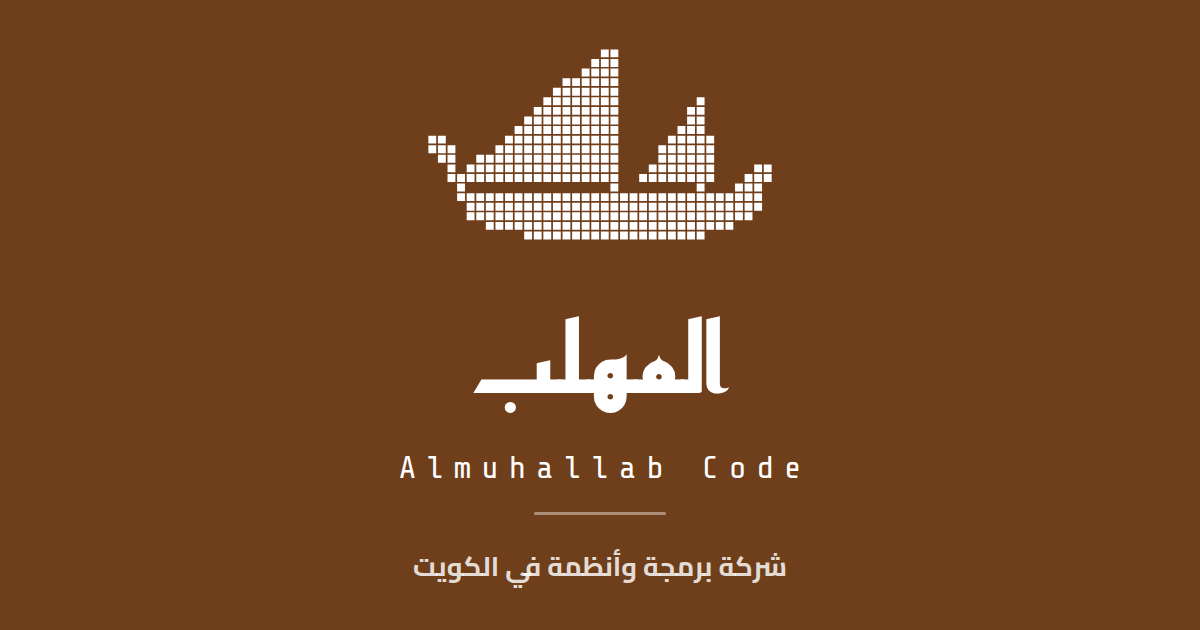
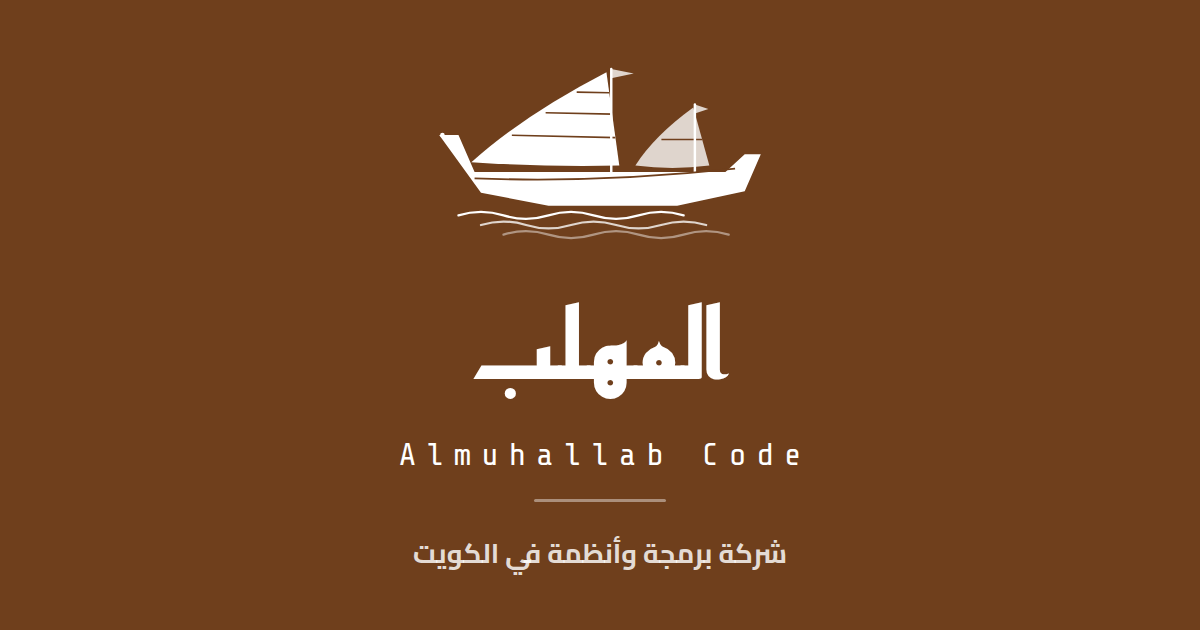
الشعار الجديد: البوم المرسوم أبيض على البني في الشريط والتذييل والأيقونة وبطاقة المشاركة
بموافقة المالك (الشعار فقط، الشريط بني كما هو). design/ship_mark.py يكتب #i-ship
وlogo.svg وfavicon.svg من رسمة واحدة. الاختبار 725/725.

Claude-Session: https://claude.ai/code/session_01Ta4JK9JCEpPNvSTme3t8ta

diff --git a/almuhallab/index.html b/almuhallab/index.html
@@ -346,34 +346,15 @@
        (one block, so no margin of its own), 13 to the descriptor. It was
        24 / 12 / 13, the first nine of the 24 being empty rows of her box. */
     .brand { gap: 6px; }
-    /* The boum is sized in whole cells, never in free pixels: --cell is the
-       CSS size of one of her 36×20 cells, and the hint below (written by
-       design/pixel_boum.py) turns it into whole device pixels per cell with a
-       whole-pixel seam between them. 148×74 put 3.08px in a cell and the
-       seams fell between pixels — a grey, uneven ship. Her box is cropped to
-       her cells, so the gap under her is the gap you see. */
+    /* the mark is the illustrated boum (design/ship_mark.py, approved
+       2026-10-03); her cut lines take the bar's own brown */
     .brand .logo { --cell: 3; display: block; flex: none; color: var(--on-bar);
       overflow: visible;   /* a box the browser rounds to whole CSS px must not clip her keel */
       transition: width .22s ease, height .22s ease; }
-    /* pixel-boum:hint */
-    /* Written by design/pixel_boum.py, which explains it — edit it there.
-       --cell is the CSS size of one cell; the bar sets it per state. --qmin
-       is the fewest device pixels a cell may take: 2 draws 1 lit + 1 seam, a
-       tan mesh rather than a white ship, so the compact states ask for 3. */
-    .brand .logo { width: calc(var(--cell) * 36px); height: calc(var(--cell) * 20px); }
-    @supports (width: calc(round(nearest, 1.5px, 1px))) {
-      .brand .logo {
-        --q: max(var(--qmin, 2), round(nearest, calc(var(--cell) * var(--dpr, 1)), 1));
-        --g: max(1, round(nearest, calc(var(--q) * 0.18), 1));
-        width: calc(var(--q) / var(--dpr, 1) * 36px); height: calc(var(--q) / var(--dpr, 1) * 20px); }
-      @supports (d: path("M0 0")) {
-        #i-boum path { d: path("M24 1.5h2M23 2.5h3M22 3.5h4M20 4.5h6M19 5.5h7M18 6.5h8M34 6.5h1M17 7.5h9M33 7.5h2M16 8.5h10M33 8.5h2M15 9.5h11M32 9.5h3M6 10.5h2M14 10.5h12M31 10.5h5M6 11.5h3M13 11.5h13M30 11.5h6M7 12.5h2M11 12.5h15M30 12.5h6M8 13.5h1M10 13.5h16M29 13.5h7M40 13.5h2M8 14.5h18M28 14.5h8M39 14.5h3M9 15.5h1M25 15.5h1M34 15.5h1M38 15.5h3M9 16.5h32M10 17.5h31M10 18.5h30M12 19.5h26M16 20.5h19");
-          fill: none; stroke: currentColor; shape-rendering: crispEdges;
-          stroke-width: calc(1 - var(--g) / var(--q)); stroke-dasharray: calc(1 - var(--g) / var(--q)) calc(var(--g) / var(--q));
-          transform: translate(calc(0.0625px / var(--q)), calc((0.0625 - var(--g) / 2) * 1px / var(--q))); }
-      }
-    }
-    /* /pixel-boum:hint */
+    /* --cell is the bar state's size step (top 3, compact 2, folded row 1.34):
+       the ship is 40px wide per step, her height following her own drawing */
+    .brand .logo { width: calc(var(--cell) * 40px); height: auto; aspect-ratio: 444 / 265;
+      --ship-cut: var(--tint-strong); }
     .brand .name { display: block; font-family: "Reem Kufi", "Cairo", sans-serif; font-size: 32px; font-weight: 700;
       color: var(--on-bar); line-height: 1.35;
       transition: font-size .22s ease; }
@@ -394,7 +375,7 @@
        company's name is not a masthead. */
     html.scrolled header { padding-top: 8px; }
     html.scrolled .brand { gap: 4px; }
-    html.scrolled .brand .logo { --cell: 2; --qmin: 3; }   /* never the 1+1 mesh at 1× */
+    html.scrolled .brand .logo { --cell: 2; }
     html.scrolled .brand .name { font-size: 20px; }
     html.scrolled .brand .en { font-size: 11px; }   /* ~104px under a 72–108px ship */
     html.scrolled .brand small { max-height: 0; opacity: 0; margin-top: 0; }
@@ -1103,6 +1084,7 @@
     .base { border-top: 1px solid var(--border); padding: 16px 20px;
       display: flex; flex-wrap: wrap; align-items: center; justify-content: center; gap: 8px 16px; }
     .base .made { display: inline-flex; align-items: center; gap: 6px; }
+    .base .made .ship { width: 24px; --ship-cut: var(--panel-2); }   /* the ship on the grey base */
     .base .top { display: inline-flex; align-items: center; gap: 6px; color: var(--tint);
       font-weight: 700; padding: 6px 12px; border-radius: 999px; border: 1px solid var(--border);
       background: var(--panel); transition: border-color .18s ease, transform .18s ease; }
@@ -1219,22 +1201,6 @@
     if (h === "localhost" || h === "127.0.0.1" || h === "[::1]") return;
     location.replace("https:" + location.href.slice(location.protocol.length));
   })();
-  /* The masthead draws the boum on whole device pixels (design/pixel_boum.py
-     writes how), and CSS cannot read the pixel ratio — so it is handed over
-     here, before the bar paints, and again whenever it changes: a zoom, or a
-     window dragged to another screen. Without it the bar assumes 1, which is
-     exact at 1×, 2× and 3× anyway; this is what makes 1.25×, 1.5× and a
-     2.625× phone exact too. */
-  (function () {
-    var root = document.documentElement;
-    function track() {
-      var r = window.devicePixelRatio || 1;
-      root.style.setProperty("--dpr", r);
-      var mq = window.matchMedia && matchMedia("(resolution: " + r + "dppx)");
-      if (mq && mq.addEventListener) mq.addEventListener("change", track, { once: true });
-    }
-    track();
-  })();
 </script>
 </head>
 <body id="top">
@@ -1245,6 +1211,7 @@
        the tab icon is favicon.svg). Drawn 2026-08-09 from the photograph of
        the ship, at the owner's direction. -->
   <svg width="0" height="0" style="position:absolute" aria-hidden="true" focusable="false">
+    <symbol id="i-ship" viewBox="-12 -18 444 265"><defs><clipPath id="i-ship-cs1"><path fill="#000" d="M42.0 126.0 Q109.2 65.1 218.4 8.4 L235.2 130.2 Q138.6 132.3 42.0 126.0Z"/></clipPath><clipPath id="i-ship-cs2"><path fill="#000" d="M256.2 130.2 Q281.4 91.1 331.8 54.6 L352.8 130.2 Q304.5 136.5 256.2 130.2Z"/></clipPath></defs><path fill="currentColor" d="M42.0 126.0 Q109.2 65.1 218.4 8.4 L235.2 130.2 Q138.6 132.3 42.0 126.0Z"/><path fill="currentColor" fill-opacity=".78" d="M256.2 130.2 Q281.4 91.1 331.8 54.6 L352.8 130.2 Q304.5 136.5 256.2 130.2Z"/><path clip-path="url(#i-ship-cs1)" stroke="var(--ship-cut, #6f3f1c)" stroke-width="2.2" d="M94.9 90.7 L230.3 93.7"/><path clip-path="url(#i-ship-cs1)" stroke="var(--ship-cut, #6f3f1c)" stroke-width="2.2" d="M139.0 61.3 L226.1 63.2"/><path clip-path="url(#i-ship-cs1)" stroke="var(--ship-cut, #6f3f1c)" stroke-width="2.2" d="M179.6 34.3 L222.4 35.2"/><path clip-path="url(#i-ship-cs2)" stroke="var(--ship-cut, #6f3f1c)" stroke-width="2" d="M290.2 96.2 L343.4 96.2"/><path stroke="currentColor" stroke-width="3.2" stroke-linecap="round" d="M224.7 4.2 L224.7 140.7"/><path fill="currentColor" fill-opacity=".78" d="M224.7 4.2 l29.4 6.0 l-29.4 6.0z"/><path stroke="currentColor" stroke-width="3.2" stroke-linecap="round" d="M333.9 50.4 L333.9 140.7"/><path fill="currentColor" fill-opacity=".78" d="M333.9 50.4 l17.6 6.0 l-17.6 6.0z"/><path fill="currentColor" d="M0.0 90.3 L25.2 90.3 L46.2 138.6 L373.8 138.6 L399.0 115.5 L420.0 115.5 L399.0 163.8 L310.8 182.7 L142.8 182.7 L54.6 165.9Z"/><path fill="none" stroke="var(--ship-cut, #6f3f1c)" stroke-width="2.4" d="M46.2 147.0 Q210.0 153.3 386.4 134.4"/><path fill="none" stroke="currentColor" stroke-opacity=".45" stroke-width="1.6" d="M75.6 163.8 Q210.0 172.2 361.2 155.4"/><circle cx="4.2" cy="90.3" r="3" fill="currentColor"/><path fill="none" stroke="currentColor" stroke-width="3" stroke-linecap="round" d="M25.2 195.3 q29.4 -9 58.8 0 t58.8 0 t58.8 0 t58.8 0 t58.8 0"/><path fill="none" stroke="currentColor" stroke-opacity=".78" stroke-width="3" stroke-linecap="round" d="M54.6 207.9 q29.4 -9 58.8 0 t58.8 0 t58.8 0 t58.8 0 t58.8 0"/><path fill="none" stroke="currentColor" stroke-opacity=".45" stroke-width="3" stroke-linecap="round" d="M84.0 220.5 q29.4 -9 58.8 0 t58.8 0 t58.8 0 t58.8 0 t58.8 0"/></symbol>
     <symbol id="i-boum" viewBox="0 0 48 24"><path fill="currentColor" stroke="none" d="M24.09 1.09h0.82v0.82h-0.82zM25.09 1.09h0.82v0.82h-0.82zM23.09 2.09h0.82v0.82h-0.82zM24.09 2.09h0.82v0.82h-0.82zM25.09 2.09h0.82v0.82h-0.82zM22.09 3.09h0.82v0.82h-0.82zM23.09 3.09h0.82v0.82h-0.82zM24.09 3.09h0.82v0.82h-0.82zM25.09 3.09h0.82v0.82h-0.82zM20.09 4.09h0.82v0.82h-0.82zM21.09 4.09h0.82v0.82h-0.82zM22.09 4.09h0.82v0.82h-0.82zM23.09 4.09h0.82v0.82h-0.82zM24.09 4.09h0.82v0.82h-0.82zM25.09 4.09h0.82v0.82h-0.82zM19.09 5.09h0.82v0.82h-0.82zM20.09 5.09h0.82v0.82h-0.82zM21.09 5.09h0.82v0.82h-0.82zM22.09 5.09h0.82v0.82h-0.82zM23.09 5.09h0.82v0.82h-0.82zM24.09 5.09h0.82v0.82h-0.82zM25.09 5.09h0.82v0.82h-0.82zM18.09 6.09h0.82v0.82h-0.82zM19.09 6.09h0.82v0.82h-0.82zM20.09 6.09h0.82v0.82h-0.82zM21.09 6.09h0.82v0.82h-0.82zM22.09 6.09h0.82v0.82h-0.82zM23.09 6.09h0.82v0.82h-0.82zM24.09 6.09h0.82v0.82h-0.82zM25.09 6.09h0.82v0.82h-0.82zM34.09 6.09h0.82v0.82h-0.82zM17.09 7.09h0.82v0.82h-0.82zM18.09 7.09h0.82v0.82h-0.82zM19.09 7.09h0.82v0.82h-0.82zM20.09 7.09h0.82v0.82h-0.82zM21.09 7.09h0.82v0.82h-0.82zM22.09 7.09h0.82v0.82h-0.82zM23.09 7.09h0.82v0.82h-0.82zM24.09 7.09h0.82v0.82h-0.82zM25.09 7.09h0.82v0.82h-0.82zM33.09 7.09h0.82v0.82h-0.82zM34.09 7.09h0.82v0.82h-0.82zM16.09 8.09h0.82v0.82h-0.82zM17.09 8.09h0.82v0.82h-0.82zM18.09 8.09h0.82v0.82h-0.82zM19.09 8.09h0.82v0.82h-0.82zM20.09 8.09h0.82v0.82h-0.82zM21.09 8.09h0.82v0.82h-0.82zM22.09 8.09h0.82v0.82h-0.82zM23.09 8.09h0.82v0.82h-0.82zM24.09 8.09h0.82v0.82h-0.82zM25.09 8.09h0.82v0.82h-0.82zM33.09 8.09h0.82v0.82h-0.82zM34.09 8.09h0.82v0.82h-0.82zM15.09 9.09h0.82v0.82h-0.82zM16.09 9.09h0.82v0.82h-0.82zM17.09 9.09h0.82v0.82h-0.82zM18.09 9.09h0.82v0.82h-0.82zM19.09 9.09h0.82v0.82h-0.82zM20.09 9.09h0.82v0.82h-0.82zM21.09 9.09h0.82v0.82h-0.82zM22.09 9.09h0.82v0.82h-0.82zM23.09 9.09h0.82v0.82h-0.82zM24.09 9.09h0.82v0.82h-0.82zM25.09 9.09h0.82v0.82h-0.82zM32.09 9.09h0.82v0.82h-0.82zM33.09 9.09h0.82v0.82h-0.82zM34.09 9.09h0.82v0.82h-0.82zM6.09 10.09h0.82v0.82h-0.82zM7.09 10.09h0.82v0.82h-0.82zM14.09 10.09h0.82v0.82h-0.82zM15.09 10.09h0.82v0.82h-0.82zM16.09 10.09h0.82v0.82h-0.82zM17.09 10.09h0.82v0.82h-0.82zM18.09 10.09h0.82v0.82h-0.82zM19.09 10.09h0.82v0.82h-0.82zM20.09 10.09h0.82v0.82h-0.82zM21.09 10.09h0.82v0.82h-0.82zM22.09 10.09h0.82v0.82h-0.82zM23.09 10.09h0.82v0.82h-0.82zM24.09 10.09h0.82v0.82h-0.82zM25.09 10.09h0.82v0.82h-0.82zM31.09 10.09h0.82v0.82h-0.82zM32.09 10.09h0.82v0.82h-0.82zM33.09 10.09h0.82v0.82h-0.82zM34.09 10.09h0.82v0.82h-0.82zM35.09 10.09h0.82v0.82h-0.82zM6.09 11.09h0.82v0.82h-0.82zM7.09 11.09h0.82v0.82h-0.82zM8.09 11.09h0.82v0.82h-0.82zM13.09 11.09h0.82v0.82h-0.82zM14.09 11.09h0.82v0.82h-0.82zM15.09 11.09h0.82v0.82h-0.82zM16.09 11.09h0.82v0.82h-0.82zM17.09 11.09h0.82v0.82h-0.82zM18.09 11.09h0.82v0.82h-0.82zM19.09 11.09h0.82v0.82h-0.82zM20.09 11.09h0.82v0.82h-0.82zM21.09 11.09h0.82v0.82h-0.82zM22.09 11.09h0.82v0.82h-0.82zM23.09 11.09h0.82v0.82h-0.82zM24.09 11.09h0.82v0.82h-0.82zM25.09 11.09h0.82v0.82h-0.82zM30.09 11.09h0.82v0.82h-0.82zM31.09 11.09h0.82v0.82h-0.82zM32.09 11.09h0.82v0.82h-0.82zM33.09 11.09h0.82v0.82h-0.82zM34.09 11.09h0.82v0.82h-0.82zM35.09 11.09h0.82v0.82h-0.82zM7.09 12.09h0.82v0.82h-0.82zM8.09 12.09h0.82v0.82h-0.82zM11.09 12.09h0.82v0.82h-0.82zM12.09 12.09h0.82v0.82h-0.82zM13.09 12.09h0.82v0.82h-0.82zM14.09 12.09h0.82v0.82h-0.82zM15.09 12.09h0.82v0.82h-0.82zM16.09 12.09h0.82v0.82h-0.82zM17.09 12.09h0.82v0.82h-0.82zM18.09 12.09h0.82v0.82h-0.82zM19.09 12.09h0.82v0.82h-0.82zM20.09 12.09h0.82v0.82h-0.82zM21.09 12.09h0.82v0.82h-0.82zM22.09 12.09h0.82v0.82h-0.82zM23.09 12.09h0.82v0.82h-0.82zM24.09 12.09h0.82v0.82h-0.82zM25.09 12.09h0.82v0.82h-0.82zM30.09 12.09h0.82v0.82h-0.82zM31.09 12.09h0.82v0.82h-0.82zM32.09 12.09h0.82v0.82h-0.82zM33.09 12.09h0.82v0.82h-0.82zM34.09 12.09h0.82v0.82h-0.82zM35.09 12.09h0.82v0.82h-0.82zM8.09 13.09h0.82v0.82h-0.82zM10.09 13.09h0.82v0.82h-0.82zM11.09 13.09h0.82v0.82h-0.82zM12.09 13.09h0.82v0.82h-0.82zM13.09 13.09h0.82v0.82h-0.82zM14.09 13.09h0.82v0.82h-0.82zM15.09 13.09h0.82v0.82h-0.82zM16.09 13.09h0.82v0.82h-0.82zM17.09 13.09h0.82v0.82h-0.82zM18.09 13.09h0.82v0.82h-0.82zM19.09 13.09h0.82v0.82h-0.82zM20.09 13.09h0.82v0.82h-0.82zM21.09 13.09h0.82v0.82h-0.82zM22.09 13.09h0.82v0.82h-0.82zM23.09 13.09h0.82v0.82h-0.82zM24.09 13.09h0.82v0.82h-0.82zM25.09 13.09h0.82v0.82h-0.82zM29.09 13.09h0.82v0.82h-0.82zM30.09 13.09h0.82v0.82h-0.82zM31.09 13.09h0.82v0.82h-0.82zM32.09 13.09h0.82v0.82h-0.82zM33.09 13.09h0.82v0.82h-0.82zM34.09 13.09h0.82v0.82h-0.82zM35.09 13.09h0.82v0.82h-0.82zM40.09 13.09h0.82v0.82h-0.82zM41.09 13.09h0.82v0.82h-0.82zM8.09 14.09h0.82v0.82h-0.82zM9.09 14.09h0.82v0.82h-0.82zM10.09 14.09h0.82v0.82h-0.82zM11.09 14.09h0.82v0.82h-0.82zM12.09 14.09h0.82v0.82h-0.82zM13.09 14.09h0.82v0.82h-0.82zM14.09 14.09h0.82v0.82h-0.82zM15.09 14.09h0.82v0.82h-0.82zM16.09 14.09h0.82v0.82h-0.82zM17.09 14.09h0.82v0.82h-0.82zM18.09 14.09h0.82v0.82h-0.82zM19.09 14.09h0.82v0.82h-0.82zM20.09 14.09h0.82v0.82h-0.82zM21.09 14.09h0.82v0.82h-0.82zM22.09 14.09h0.82v0.82h-0.82zM23.09 14.09h0.82v0.82h-0.82zM24.09 14.09h0.82v0.82h-0.82zM25.09 14.09h0.82v0.82h-0.82zM28.09 14.09h0.82v0.82h-0.82zM29.09 14.09h0.82v0.82h-0.82zM30.09 14.09h0.82v0.82h-0.82zM31.09 14.09h0.82v0.82h-0.82zM32.09 14.09h0.82v0.82h-0.82zM33.09 14.09h0.82v0.82h-0.82zM34.09 14.09h0.82v0.82h-0.82zM35.09 14.09h0.82v0.82h-0.82zM39.09 14.09h0.82v0.82h-0.82zM40.09 14.09h0.82v0.82h-0.82zM41.09 14.09h0.82v0.82h-0.82zM9.09 15.09h0.82v0.82h-0.82zM25.09 15.09h0.82v0.82h-0.82zM34.09 15.09h0.82v0.82h-0.82zM38.09 15.09h0.82v0.82h-0.82zM39.09 15.09h0.82v0.82h-0.82zM40.09 15.09h0.82v0.82h-0.82zM9.09 16.09h0.82v0.82h-0.82zM10.09 16.09h0.82v0.82h-0.82zM11.09 16.09h0.82v0.82h-0.82zM12.09 16.09h0.82v0.82h-0.82zM13.09 16.09h0.82v0.82h-0.82zM14.09 16.09h0.82v0.82h-0.82zM15.09 16.09h0.82v0.82h-0.82zM16.09 16.09h0.82v0.82h-0.82zM17.09 16.09h0.82v0.82h-0.82zM18.09 16.09h0.82v0.82h-0.82zM19.09 16.09h0.82v0.82h-0.82zM20.09 16.09h0.82v0.82h-0.82zM21.09 16.09h0.82v0.82h-0.82zM22.09 16.09h0.82v0.82h-0.82zM23.09 16.09h0.82v0.82h-0.82zM24.09 16.09h0.82v0.82h-0.82zM25.09 16.09h0.82v0.82h-0.82zM26.09 16.09h0.82v0.82h-0.82zM27.09 16.09h0.82v0.82h-0.82zM28.09 16.09h0.82v0.82h-0.82zM29.09 16.09h0.82v0.82h-0.82zM30.09 16.09h0.82v0.82h-0.82zM31.09 16.09h0.82v0.82h-0.82zM32.09 16.09h0.82v0.82h-0.82zM33.09 16.09h0.82v0.82h-0.82zM34.09 16.09h0.82v0.82h-0.82zM35.09 16.09h0.82v0.82h-0.82zM36.09 16.09h0.82v0.82h-0.82zM37.09 16.09h0.82v0.82h-0.82zM38.09 16.09h0.82v0.82h-0.82zM39.09 16.09h0.82v0.82h-0.82zM40.09 16.09h0.82v0.82h-0.82zM10.09 17.09h0.82v0.82h-0.82zM11.09 17.09h0.82v0.82h-0.82zM12.09 17.09h0.82v0.82h-0.82zM13.09 17.09h0.82v0.82h-0.82zM14.09 17.09h0.82v0.82h-0.82zM15.09 17.09h0.82v0.82h-0.82zM16.09 17.09h0.82v0.82h-0.82zM17.09 17.09h0.82v0.82h-0.82zM18.09 17.09h0.82v0.82h-0.82zM19.09 17.09h0.82v0.82h-0.82zM20.09 17.09h0.82v0.82h-0.82zM21.09 17.09h0.82v0.82h-0.82zM22.09 17.09h0.82v0.82h-0.82zM23.09 17.09h0.82v0.82h-0.82zM24.09 17.09h0.82v0.82h-0.82zM25.09 17.09h0.82v0.82h-0.82zM26.09 17.09h0.82v0.82h-0.82zM27.09 17.09h0.82v0.82h-0.82zM28.09 17.09h0.82v0.82h-0.82zM29.09 17.09h0.82v0.82h-0.82zM30.09 17.09h0.82v0.82h-0.82zM31.09 17.09h0.82v0.82h-0.82zM32.09 17.09h0.82v0.82h-0.82zM33.09 17.09h0.82v0.82h-0.82zM34.09 17.09h0.82v0.82h-0.82zM35.09 17.09h0.82v0.82h-0.82zM36.09 17.09h0.82v0.82h-0.82zM37.09 17.09h0.82v0.82h-0.82zM38.09 17.09h0.82v0.82h-0.82zM39.09 17.09h0.82v0.82h-0.82zM40.09 17.09h0.82v0.82h-0.82zM10.09 18.09h0.82v0.82h-0.82zM11.09 18.09h0.82v0.82h-0.82zM12.09 18.09h0.82v0.82h-0.82zM13.09 18.09h0.82v0.82h-0.82zM14.09 18.09h0.82v0.82h-0.82zM15.09 18.09h0.82v0.82h-0.82zM16.09 18.09h0.82v0.82h-0.82zM17.09 18.09h0.82v0.82h-0.82zM18.09 18.09h0.82v0.82h-0.82zM19.09 18.09h0.82v0.82h-0.82zM20.09 18.09h0.82v0.82h-0.82zM21.09 18.09h0.82v0.82h-0.82zM22.09 18.09h0.82v0.82h-0.82zM23.09 18.09h0.82v0.82h-0.82zM24.09 18.09h0.82v0.82h-0.82zM25.09 18.09h0.82v0.82h-0.82zM26.09 18.09h0.82v0.82h-0.82zM27.09 18.09h0.82v0.82h-0.82zM28.09 18.09h0.82v0.82h-0.82zM29.09 18.09h0.82v0.82h-0.82zM30.09 18.09h0.82v0.82h-0.82zM31.09 18.09h0.82v0.82h-0.82zM32.09 18.09h0.82v0.82h-0.82zM33.09 18.09h0.82v0.82h-0.82zM34.09 18.09h0.82v0.82h-0.82zM35.09 18.09h0.82v0.82h-0.82zM36.09 18.09h0.82v0.82h-0.82zM37.09 18.09h0.82v0.82h-0.82zM38.09 18.09h0.82v0.82h-0.82zM39.09 18.09h0.82v0.82h-0.82zM12.09 19.09h0.82v0.82h-0.82zM13.09 19.09h0.82v0.82h-0.82zM14.09 19.09h0.82v0.82h-0.82zM15.09 19.09h0.82v0.82h-0.82zM16.09 19.09h0.82v0.82h-0.82zM17.09 19.09h0.82v0.82h-0.82zM18.09 19.09h0.82v0.82h-0.82zM19.09 19.09h0.82v0.82h-0.82zM20.09 19.09h0.82v0.82h-0.82zM21.09 19.09h0.82v0.82h-0.82zM22.09 19.09h0.82v0.82h-0.82zM23.09 19.09h0.82v0.82h-0.82zM24.09 19.09h0.82v0.82h-0.82zM25.09 19.09h0.82v0.82h-0.82zM26.09 19.09h0.82v0.82h-0.82zM27.09 19.09h0.82v0.82h-0.82zM28.09 19.09h0.82v0.82h-0.82zM29.09 19.09h0.82v0.82h-0.82zM30.09 19.09h0.82v0.82h-0.82zM31.09 19.09h0.82v0.82h-0.82zM32.09 19.09h0.82v0.82h-0.82zM33.09 19.09h0.82v0.82h-0.82zM34.09 19.09h0.82v0.82h-0.82zM35.09 19.09h0.82v0.82h-0.82zM36.09 19.09h0.82v0.82h-0.82zM37.09 19.09h0.82v0.82h-0.82zM16.09 20.09h0.82v0.82h-0.82zM17.09 20.09h0.82v0.82h-0.82zM18.09 20.09h0.82v0.82h-0.82zM19.09 20.09h0.82v0.82h-0.82zM20.09 20.09h0.82v0.82h-0.82zM21.09 20.09h0.82v0.82h-0.82zM22.09 20.09h0.82v0.82h-0.82zM23.09 20.09h0.82v0.82h-0.82zM24.09 20.09h0.82v0.82h-0.82zM25.09 20.09h0.82v0.82h-0.82zM26.09 20.09h0.82v0.82h-0.82zM27.09 20.09h0.82v0.82h-0.82zM28.09 20.09h0.82v0.82h-0.82zM29.09 20.09h0.82v0.82h-0.82zM30.09 20.09h0.82v0.82h-0.82zM31.09 20.09h0.82v0.82h-0.82zM32.09 20.09h0.82v0.82h-0.82zM33.09 20.09h0.82v0.82h-0.82zM34.09 20.09h0.82v0.82h-0.82z"/></symbol><symbol id="i-sail" viewBox="0 0 24 24"><path fill="currentColor" stroke="none" d="M15.045 1.545h1.41v1.41h-1.41zM13.545 3.045h1.41v1.41h-1.41zM15.045 3.045h1.41v1.41h-1.41zM12.045 4.545h1.41v1.41h-1.41zM13.545 4.545h1.41v1.41h-1.41zM15.045 4.545h1.41v1.41h-1.41zM10.545 6.045h1.41v1.41h-1.41zM12.045 6.045h1.41v1.41h-1.41zM13.545 6.045h1.41v1.41h-1.41zM15.045 6.045h1.41v1.41h-1.41zM9.045 7.545h1.41v1.41h-1.41zM10.545 7.545h1.41v1.41h-1.41zM12.045 7.545h1.41v1.41h-1.41zM13.545 7.545h1.41v1.41h-1.41zM15.045 7.545h1.41v1.41h-1.41zM7.545 9.045h1.41v1.41h-1.41zM9.045 9.045h1.41v1.41h-1.41zM10.545 9.045h1.41v1.41h-1.41zM12.045 9.045h1.41v1.41h-1.41zM13.545 9.045h1.41v1.41h-1.41zM15.045 9.045h1.41v1.41h-1.41zM6.045 10.545h1.41v1.41h-1.41zM7.545 10.545h1.41v1.41h-1.41zM9.045 10.545h1.41v1.41h-1.41zM10.545 10.545h1.41v1.41h-1.41zM12.045 10.545h1.41v1.41h-1.41zM13.545 10.545h1.41v1.41h-1.41zM15.045 10.545h1.41v1.41h-1.41zM4.545 12.045h1.41v1.41h-1.41zM6.045 12.045h1.41v1.41h-1.41zM7.545 12.045h1.41v1.41h-1.41zM9.045 12.045h1.41v1.41h-1.41zM10.545 12.045h1.41v1.41h-1.41zM12.045 12.045h1.41v1.41h-1.41zM13.545 12.045h1.41v1.41h-1.41zM15.045 12.045h1.41v1.41h-1.41zM3.045 13.545h1.41v1.41h-1.41zM4.545 13.545h1.41v1.41h-1.41zM6.045 13.545h1.41v1.41h-1.41zM7.545 13.545h1.41v1.41h-1.41zM9.045 13.545h1.41v1.41h-1.41zM10.545 13.545h1.41v1.41h-1.41zM12.045 13.545h1.41v1.41h-1.41zM13.545 13.545h1.41v1.41h-1.41zM15.045 13.545h1.41v1.41h-1.41zM1.545 15.045h1.41v1.41h-1.41zM15.045 15.045h1.41v1.41h-1.41zM21.045 15.045h1.41v1.41h-1.41zM1.545 16.545h1.41v1.41h-1.41zM3.045 16.545h1.41v1.41h-1.41zM15.045 16.545h1.41v1.41h-1.41zM19.545 16.545h1.41v1.41h-1.41zM21.045 16.545h1.41v1.41h-1.41zM3.045 18.045h1.41v1.41h-1.41zM4.545 18.045h1.41v1.41h-1.41zM6.045 18.045h1.41v1.41h-1.41zM7.545 18.045h1.41v1.41h-1.41zM9.045 18.045h1.41v1.41h-1.41zM10.545 18.045h1.41v1.41h-1.41zM12.045 18.045h1.41v1.41h-1.41zM13.545 18.045h1.41v1.41h-1.41zM15.045 18.045h1.41v1.41h-1.41zM16.545 18.045h1.41v1.41h-1.41zM18.045 18.045h1.41v1.41h-1.41zM19.545 18.045h1.41v1.41h-1.41zM4.545 19.545h1.41v1.41h-1.41zM6.045 19.545h1.41v1.41h-1.41zM7.545 19.545h1.41v1.41h-1.41zM9.045 19.545h1.41v1.41h-1.41zM10.545 19.545h1.41v1.41h-1.41zM12.045 19.545h1.41v1.41h-1.41zM13.545 19.545h1.41v1.41h-1.41zM15.045 19.545h1.41v1.41h-1.41zM16.545 19.545h1.41v1.41h-1.41zM18.045 19.545h1.41v1.41h-1.41zM6.045 21.045h1.41v1.41h-1.41zM7.545 21.045h1.41v1.41h-1.41zM9.045 21.045h1.41v1.41h-1.41zM10.545 21.045h1.41v1.41h-1.41zM12.045 21.045h1.41v1.41h-1.41zM13.545 21.045h1.41v1.41h-1.41zM15.045 21.045h1.41v1.41h-1.41zM16.545 21.045h1.41v1.41h-1.41z"/></symbol>
     <symbol id="i-whatsapp" viewBox="0 0 24 24"><path d="M6.19 3.69h2.62l1.62 4-2 1.5a12.5 12.5 0 0 0 6.38 6.38l1.5-2 4 1.62v2.62c0 1.38-1.12 2.5-2.5 2.5A18.25 18.25 0 0 1 3.69 6.19c0-1.38 1.12-2.5 2.5-2.5Z"/></symbol>
     <symbol id="i-instagram" viewBox="0 0 24 24"><rect x="3.4" y="3.4" width="17.2" height="17.2" rx="5"/><circle cx="12" cy="12" r="4.1"/><circle cx="17.1" cy="6.9" r="1.15" fill="currentColor" stroke="none"/></symbol>
@@ -1289,7 +1256,7 @@
 
   <header>
     <div class="brand">
-      <svg class="logo" viewBox="6 1 36 20" aria-hidden="true"><svg width="48" height="24"><use href="#i-boum"/></svg></svg>
+      <svg class="logo" viewBox="-12 -18 444 265" aria-hidden="true"><use href="#i-ship"/></svg>
       <div><span class="name">المهلب</span>
         <span class="en">Almuhallab&nbsp;Code</span>
         <small>شركة برمجة وأنظمة</small></div>
@@ -1364,7 +1331,7 @@
       <!-- real, verifiable numbers — no invented clients or years -->
       <div class="stats">
         <div class="stat"><b class="num" data-count="4">4</b><span>وحدات في نظام النوخذة</span></div>
-        <div class="stat"><b class="num" data-count="726">726</b><span>فحصاً آلياً قبل كل إصدار</span></div>
+        <div class="stat"><b class="num" data-count="725">725</b><span>فحصاً آلياً قبل كل إصدار</span></div>
         <div class="stat"><b class="num" data-count="0">0</b><span>اعتماديات خارجية</span></div>
         <div class="stat"><b class="num" data-count="100" data-suffix="%">100%</b><span>يعمل دون إنترنت</span></div>
       </div>
@@ -1722,7 +1689,7 @@
     <div class="fcols">
       <div class="fbrand">
         <div class="fmark">
-          <svg class="logo" viewBox="0 0 24 24" aria-hidden="true"><use href="#i-sail"/></svg>
+          <svg class="logo" viewBox="-12 -18 444 265" aria-hidden="true"><use href="#i-ship"/></svg>
           <span class="name">المهلب<small class="en">Almuhallab&nbsp;Code</small></span>
         </div>
         <p>شركة برمجة وأنظمة في الكويت. نبني المواقع وتطبيقات الجوال
@@ -1767,7 +1734,7 @@
     </div>
     <div class="base">
       <span>© <span dir="ltr">2026</span> المهلب كود — Almuhallab Code · جميع الحقوق محفوظة</span>
-      <span class="made"><svg class="ic sm" aria-hidden="true"><use href="#i-sail"/></svg> صُنع في الكويت</span>
+      <span class="made"><svg class="ic sm ship" viewBox="-12 -18 444 265" aria-hidden="true"><use href="#i-ship"/></svg> صُنع في الكويت</span>
       <a class="top" href="#top"><svg class="ic" aria-hidden="true"><use href="#i-chev"/></svg> إلى الأعلى</a>
     </div>
   </footer>

diff --git a/design/test_suite.py b/design/test_suite.py
@@ -578,10 +578,16 @@ def identity_checks():
           gen.returncode == 0, (gen.stdout + gen.stderr).strip())
     fav = (ROOT / "favicon.svg").read_text()
     wide_d, sq_d = pb.wide_d(), pb.square_d(1.5)
-    check(S, "the wide pixel boum is the mark: logo.svg and the #i-boum symbol",
-          'id="i-boum"' in home and wide_d in home and wide_d in logo)
-    check(S, "favicon.svg is the same 16×16 bitmap as #i-sail, not a second ship",
-          'id="i-sail"' in home and sq_d in home and pb.square_d(32) in fav)
+    # Since 2026-10-03 the company flies the illustrated boum (owner's
+    # approval: logo only, the brown bar kept), drawn over the same polygons;
+    # design/ship_mark.py writes #i-ship, logo.svg and favicon.svg
+    sm_gen = subprocess.run([_sys.executable, str(ROOT.parent / "design" / "ship_mark.py"), "--check"],
+                            capture_output=True, text=True)
+    check(S, "the illustrated boum is generated from one drawing (ship_mark --check)",
+          sm_gen.returncode == 0, (sm_gen.stdout + sm_gen.stderr).strip())
+    check(S, "logo.svg and favicon.svg fly the illustrated boum, white on brown",
+          'id="i-ship"' in home and "ship_mark.py" in logo and "ship_mark.py" in fav
+          and "#6f3f1c" in logo and "#6f3f1c" in fav)
     # Four things make her a boum; each is asserted on the drawing itself.
     tris = [p for p in ml.BOUM if len(p) == 3]
     check(S, "she carries two filled lateen sails, not bare poles",
@@ -600,11 +606,11 @@ def identity_checks():
     check(S, "the square form keeps a one-cell margin, so the tile's corners clip nothing",
           sq_rows[0].strip(".") == "" and sq_rows[-1].strip(".") == ""
           and all(r[0] == "." and r[-1] == "." for r in sq_rows))
-    check(S, "the masthead flies the wide mark; the footer keeps the square",
-          '<use href="#i-boum"/>' in home.split("<footer>")[0].split('class="brand"')[1]
-          and '<use href="#i-sail"/>' in home.split("<footer>")[1])
-    check(S, "the page carries both forms of the mark, not an emoji or a letter",
-          '<use href="#i-boum"/>' in home and '<use href="#i-sail"/>' in home)
+    check(S, "the masthead and the footer fly the illustrated boum",
+          '<use href="#i-ship"/>' in home.split("<footer>")[0].split('class="brand"')[1]
+          and '<use href="#i-ship"/>' in home.split("<footer>")[1])
+    check(S, "the pixel boum stays in the sprite for what still draws it",
+          'id="i-boum"' in home and 'id="i-sail"' in home and wide_d in home and sq_d in home)
     check(S, "the wordmark is set in Reem Kufi, Almuhallab Code in Share Tech Mono",
           re.search(r'\.brand \.name \{[^}]*font-family: "Reem Kufi"', home) is not None
           and re.search(r'\.brand \.en \{[^}]*font-family: "Share Tech Mono"', home) is not None)
@@ -704,7 +710,6 @@ def browser_checks():
         totals_alignment_checks(br)
         mobile_checks(br)
         fit_checks(br)
-        crisp_mark_checks(br)
         portal_checks(pg)
         font_checks(pg)
         app_icon_checks(pg)
@@ -910,7 +915,7 @@ def home_checks(pg):
     check(S, "no-JS: the edge fades are not painted",
           np_.evaluate("getComputedStyle(document.querySelector('#services .railwrap'),'::before').content") == "none")
     check(S, "no-JS: the counters already show the true numbers",
-          np_.eval_on_selector_all(".stat .num", "n=>n.map(e=>e.textContent)") == ["4", "726", "0", "100%"])
+          np_.eval_on_selector_all(".stat .num", "n=>n.map(e=>e.textContent)") == ["4", "725", "0", "100%"])
     check(S, "no-JS: the form is not offered dead — the channels are",
           np_.evaluate("getComputedStyle(document.querySelector('.qwrap')).display") == "none"
           and np_.is_visible(".channels"))
@@ -943,7 +948,7 @@ def home_checks(pg):
     pg.wait_for_timeout(1800)
     finals = pg.eval_on_selector_all(".stat .num", "n=>n.map(e=>e.textContent)")
     check(S, "the counters settle on the true numbers",
-          finals == ["4", "726", "0", "100%"], str(finals))
+          finals == ["4", "725", "0", "100%"], str(finals))
     # the project form validates honestly and never navigates on bad input
     pg.fill("#q-email", "not-an-email"); pg.dispatch_event("#q-email", "blur")
     check(S, "a bad email is marked invalid",
@@ -974,7 +979,7 @@ def home_checks(pg):
     icons = pg.eval_on_selector_all("main use", "n=>n.length")
     check(S, "the drawn icon set is used throughout", icons >= 14, f"{icons} icons")
     check(S, "the header carries the Almuhallab mark",
-          pg.eval_on_selector("header .logo use", "e=>e.getAttribute('href')") == "#i-boum")
+          pg.eval_on_selector("header .logo use", "e=>e.getAttribute('href')") == "#i-ship")
     check(S, "the wordmark reads المهلب",
           pg.inner_text("header .name").strip() == "المهلب")
     centred = pg.evaluate("""(() => {
@@ -1585,8 +1590,8 @@ def scan_checks(pg, br):
     import sys as _sys
     _sys.path.insert(0, str(ROOT.parent / "design"))
     import pixel_boum as pb
-    check(S, "the favicon file draws the pixel boum",
-          pb.square_d(32) in fav)
+    check(S, "the favicon file draws the illustrated boum",
+          "ship_mark.py" in fav and 'fill="#6f3f1c"' in fav)
 
     # Home-screen icons. Every page used to point apple-touch-icon at an SVG,
     # which iOS ignores — "Add to Home Screen" showed a screenshot of the page.

diff --git a/design/ship_mark.py b/design/ship_mark.py
@@ -1,0 +1,118 @@
+#!/usr/bin/env python3
+"""The company mark: the Almuhallab boum as a flat illustration.
+
+Approved by the owner 2026-10-03 («approve all» — logo only, the brown bar
+kept), replacing the pixel boum in the masthead, the footer, the favicon,
+logo.svg and the share card. One drawing: design/logo-modern/build.py draws
+her over the BOUM polygons in design/matrix_logo.py; this writes that drawing
+everywhere the site flies it, and `--check` fails on any hand edit.
+
+  * #i-ship in index.html's sprite — inks are currentColor (the second sail at
+    .78, the waterline at .45) and the cut lines take var(--ship-cut), the
+    colour of whatever she sits on, so one symbol serves the brown bar, the
+    brown footer tile and the grey footer base;
+  * logo.svg — white on the brand brown, her own ground;
+  * favicon.svg — white on a brown rounded square.
+
+    python3 design/ship_mark.py           # write
+    python3 design/ship_mark.py --check   # exit 1 on drift
+"""
+import importlib.util
+import re
+import sys
+from pathlib import Path
+
+HERE = Path(__file__).resolve().parent
+SITE = HERE.parent / "almuhallab"
+PAGE = SITE / "index.html"
+BROWN, WHITE = "#6f3f1c", "#ffffff"
+
+_spec = importlib.util.spec_from_file_location("logo_modern", HERE / "logo-modern" / "build.py")
+lm = importlib.util.module_from_spec(_spec)
+_spec.loader.exec_module(lm)
+
+
+def _drawing():
+    svg = lm.ship_svg()
+    vb = re.search(r'viewBox="([^"]+)"', svg).group(1)
+    body = svg[svg.index(">") + 1: svg.rindex("</svg>")]
+    return vb, body
+
+
+def _inked(body, ink, soft, dim, cut):
+    return (body.replace(f'"{lm.INK}"', f'"{ink}"')
+                .replace(f'fill="{lm.SOFT}"', f'fill="{soft[0]}"{soft[1] and " fill-opacity=" + chr(34) + soft[1] + chr(34)}')
+                .replace(f'stroke="{lm.SOFT}"', f'stroke="{soft[0]}"{soft[1] and " stroke-opacity=" + chr(34) + soft[1] + chr(34)}')
+                .replace(f'stroke="{lm.DIM}"', f'stroke="{dim[0]}"{dim[1] and " stroke-opacity=" + chr(34) + dim[1] + chr(34)}')
+                .replace(f'"{lm.BG}"', f'"{cut}"'))
+
+
+VIEWBOX = _drawing()[0]
+
+
+def symbol():
+    vb, body = _drawing()
+    body = _inked(body, "currentColor", ("currentColor", ".78"), ("currentColor", ".45"), "var(--ship-cut, #6f3f1c)")
+    body = body.replace('url(#cs1)', 'url(#i-ship-cs1)').replace('url(#cs2)', 'url(#i-ship-cs2)') \
+               .replace('id="cs1"', 'id="i-ship-cs1"').replace('id="cs2"', 'id="i-ship-cs2"')
+    return f'<symbol id="i-ship" viewBox="{vb}">{body}</symbol>'
+
+
+def _on_brown(body):
+    return _inked(body, WHITE, (WHITE, ".78"), (WHITE, ".45"), BROWN)
+
+
+def logo_svg():
+    vb, body = _drawing()
+    x, y, w, h = vb.split()
+    return f'''<svg xmlns="http://www.w3.org/2000/svg" viewBox="{vb}" role="img" aria-label="المهلب — Almuhallab">
+  <!-- The Almuhallab mark: the Kuwaiti boum as a flat illustration, white on
+       the brand brown (owner's approval 2026-10-03). Drawn over the BOUM
+       polygons in design/matrix_logo.py by design/logo-modern/build.py and
+       written here by design/ship_mark.py — do not edit by hand. -->
+  <rect x="{x}" y="{y}" width="{w}" height="{h}" fill="{BROWN}"/>
+  {_on_brown(body)}
+</svg>
+'''
+
+
+def favicon_svg():
+    vb, body = _drawing()
+    x, y, w, h = (float(v) for v in vb.split())
+    s = 440 / w                       # the ship fills 440 of the 512 tile
+    tx, ty = 36 - x * s, 256 - (y + h / 2) * s
+    return f'''<svg xmlns="http://www.w3.org/2000/svg" viewBox="0 0 512 512">
+  <!-- Almuhallab Code favicon: the illustrated boum, white on the brand brown.
+       Written by design/ship_mark.py — do not edit by hand. -->
+  <rect width="512" height="512" rx="96" fill="{BROWN}"/>
+  <g transform="translate({tx:.1f} {ty:.1f}) scale({s:.4f})">{_on_brown(body)}</g>
+</svg>
+'''
+
+
+def with_symbol(html):
+    sym = symbol()
+    if 'id="i-ship"' in html:
+        html, n = re.subn(r'<symbol id="i-ship".*?</symbol>', lambda m: sym, html, count=1, flags=re.S)
+    else:
+        html, n = re.subn(r'(<symbol id="i-boum")', lambda m: sym + "\n    " + m.group(1), html, count=1)
+    if n != 1:
+        sys.exit("could not place #i-ship in index.html's sprite")
+    return html
+
+
+def main():
+    want = {SITE / "logo.svg": logo_svg(), SITE / "favicon.svg": favicon_svg(), PAGE: with_symbol(PAGE.read_text())}
+    stale = [p.name for p, t in want.items() if p.read_text() != t]
+    if "--check" in sys.argv:
+        if stale:
+            sys.exit("ship mark drifted: " + ", ".join(stale))
+        print("ship mark is current")
+        return
+    for p, t in want.items():
+        p.write_text(t)
+    print(f"wrote {len(want)} files")
+
+
+if __name__ == "__main__":
+    main()

diff --git a/design/app_icons.py b/design/app_icons.py
@@ -7,7 +7,7 @@ the mark. The manifest offered SVG only, and used the same drawing as its
 `maskable` icon. Android builds the installed icon from PNGs.
 
 The two marks stay apart, as the identity requires:
-  * the company page (index.html) gets the pixel boum — favicon.svg's bitmap;
+  * the company page (index.html) gets the illustrated boum — favicon.svg;
   * النوخذة, the installable app (manifest.webmanifest), keeps the ⚓ — icon.svg.
 
 All of it is FULL-BLEED: iOS and Android launchers cut their own shape, and a
@@ -30,12 +30,10 @@ BROWN = "#6f3f1c"
 
 
 def boum_touch():
-    """180×180: the 16×16 bitmap at exactly 10px a cell, 10px of brown round it."""
-    cells = pb.square_cells()
-    d = "".join(f"M{10 + x * 10} {10 + y * 10}h10v10h-10z" for x, y in cells)
-    return (f'<svg xmlns="http://www.w3.org/2000/svg" viewBox="0 0 180 180">'
-            f'<rect width="180" height="180" fill="{BROWN}"/>'
-            f'<path fill="#ffffff" shape-rendering="crispEdges" d="{d}"/></svg>')
+    """180×180: the illustrated boum on the brand brown — favicon.svg's own tile,
+    drawn full-bleed (iOS cuts its own shape)."""
+    svg = (SITE / "favicon.svg").read_text()
+    return svg.replace('rx="96" ', "", 1)
 
 
 def anchor(full_bleed):

diff --git a/design/og_image.py b/design/og_image.py
@@ -20,12 +20,12 @@ BROWN = "#6f3f1c"
 
 
 def wide_mark() -> str:
-    """Lift the wide boum straight out of the page sprite."""
+    """Lift the illustrated boum straight out of the page sprite (#i-ship)."""
     html = (SITE / "index.html").read_text(encoding="utf-8")
-    m = re.search(r'<symbol id="i-boum" viewBox="([^"]+)">(.*?)</symbol>', html, re.S)
+    m = re.search(r'<symbol id="i-ship" viewBox="([^"]+)">(.*?)</symbol>', html, re.S)
     if not m:
-        sys.exit("i-boum symbol not found in index.html — did the mark move?")
-    return f'<svg viewBox="{m.group(1)}" style="width:460px;height:230px;color:#fff">{m.group(2)}</svg>'
+        sys.exit("i-ship symbol not found in index.html — did the mark move?")
+    return f'<svg viewBox="{m.group(1)}" style="width:340px;height:auto;color:#fff;--ship-cut:#6f3f1c">{m.group(2)}</svg>'
 
 
 def build() -> str:

diff --git a/design/pixel_boum.py b/design/pixel_boum.py
@@ -265,11 +265,11 @@ def with_symbols(html):
 
 def main():
     check = "--check" in sys.argv
-    want = {
-        SITE / "logo.svg": logo_svg(),
-        SITE / "favicon.svg": favicon_svg(),
-        PAGE: with_masthead(with_symbols(PAGE.read_text())),
-    }
+    # Since 2026-10-03 the masthead, logo.svg and favicon.svg fly the
+    # illustrated boum (design/ship_mark.py). The pixel forms stay in the
+    # sprite for what still draws them — the matrix logo, the logo pack, the
+    # Instagram set, the ads and the film.
+    want = {PAGE: with_symbols(PAGE.read_text())}
     stale = [p.name for p, t in want.items() if p.read_text() != t]
     if check:
         if stale:

diff --git a/CLAUDE.md b/CLAUDE.md
@@ -47,7 +47,7 @@ Locked, exactly as they are:
 
 | | Locked value |
 |---|---|
-| Mark | a **Kuwaiti boum under sail drawn as a pixel grid** — the matrix-code identity the owner adopted 2026-09-28, replacing the stroked boum. One drawing: the ship's polygons in `design/matrix_logo.py` (`BOUM`), and nothing else draws her. `design/pixel_boum.py` rasterises them into the **wide form** (`#i-boum`, `logo.svg`: 36×24 lit cells centred in the 48×24 box, coverage-sampled so the thin stem joins the hull) and holds the **square form** (`#i-sail`, `favicon.svg`) as a hand-set **16×16 bitmap** with a one-cell margin, so at 16px every cell is exactly one screen pixel — that is the small-size fix, and why it is set by hand. Four things make her a boum and the suite asserts each on the polygons: **double-ended** with a raked stem and sternpost rising from one hull shape (never a transom), **two filled lateen sails**, the **tall mainmast forward** of the short mizzen, the sheer rising into both ends. The gaps between cells are the code texture — never fill them. **Colour: white ship on brand brown** (owner's request 2026-09-28) — `logo.svg` and `favicon.svg` carry their own `#6f3f1c` ground (the favicon's amber gradient is gone), and the footer sets the square mark white on a brown tile; the masthead was already white on the brown bar. `pixel_boum.py --check` is the mark's signature in the suite; a hand edit to any of its outputs fails it. **In the masthead she is hinted like a font** (owner's request «improve logo style at top bar», 2026-10-01): the same 331 lit cells, but each cell a whole number of device pixels (`q = max(--qmin, round(--cell × --dpr))`) with a whole-pixel seam (`g = max(1, round(0.18q))`), so the seams are visible on every screen instead of falling between pixels — 148×74 had put 3.08px in a cell and the white ship read grey, 1.75px once scrolled. pixel_boum.py writes three more pieces into index.html and `--check` covers them: the masthead window (`viewBox="6 1 36 20"`, cropped to her cells, around an inner 48×24 svg so the symbol is not shrunk), the `/* pixel-boum:hint */` block (CSS `d` swaps the path for 38 row runs dashed into cells, crispEdges, a 1/16-px nudge), and it refuses to write if `#i-boum` is used anywhere but the masthead, because the hint styles the symbol itself. A head script hands CSS the pixel ratio (`--dpr`); without it the bar is still exact at 1×/2×/3×. Each bar state sets `--cell` (top 3, compact 2, folded row 1.34); compact states set `--qmin: 3`, because 2 device px is 1 lit + 1 seam — a tan mesh, not a white ship. The entrance animation fills `backwards`, not `both`: a fill that outlives it keeps the mark on its own layer, resampled at a fractional offset on a 2.625× phone. The suite renders the ship at 1×–3× and fails on a single blended pixel At display sizes the glyph-field version (`design/matrix-logo/`) is the same ship in code characters |
+| Mark | **Since 2026-10-03 the company flies the illustrated boum** (owner's «approve all», logo only — the brown bar kept): the same ship drawn as a flat illustration over the `BOUM` polygons by `design/logo-modern/build.py` — lateen sails with panel seams, planked hull, pennants, three waves — white on the brand brown. `design/ship_mark.py` writes `#i-ship` (inks `currentColor`, cut lines `var(--ship-cut)` so one symbol sits on the bar, the brown tile and the grey footer), `logo.svg` and `favicon.svg`; `--check` pins them, and `og.png` and the home-screen icon are drawn from them. The pixel forms below stay in the sprite for the matrix logo, logo pack, Instagram set, ads and film, which have not been redrawn. — History: a **Kuwaiti boum under sail drawn as a pixel grid** — the matrix-code identity the owner adopted 2026-09-28, replacing the stroked boum. One drawing: the ship's polygons in `design/matrix_logo.py` (`BOUM`), and nothing else draws her. `design/pixel_boum.py` rasterises them into the **wide form** (`#i-boum`, `logo.svg`: 36×24 lit cells centred in the 48×24 box, coverage-sampled so the thin stem joins the hull) and holds the **square form** (`#i-sail`, `favicon.svg`) as a hand-set **16×16 bitmap** with a one-cell margin, so at 16px every cell is exactly one screen pixel — that is the small-size fix, and why it is set by hand. Four things make her a boum and the suite asserts each on the polygons: **double-ended** with a raked stem and sternpost rising from one hull shape (never a transom), **two filled lateen sails**, the **tall mainmast forward** of the short mizzen, the sheer rising into both ends. The gaps between cells are the code texture — never fill them. **Colour: white ship on brand brown** (owner's request 2026-09-28) — `logo.svg` and `favicon.svg` carry their own `#6f3f1c` ground (the favicon's amber gradient is gone), and the footer sets the square mark white on a brown tile; the masthead was already white on the brown bar. `pixel_boum.py --check` is the mark's signature in the suite; a hand edit to any of its outputs fails it. **In the masthead she is hinted like a font** (owner's request «improve logo style at top bar», 2026-10-01): the same 331 lit cells, but each cell a whole number of device pixels (`q = max(--qmin, round(--cell × --dpr))`) with a whole-pixel seam (`g = max(1, round(0.18q))`), so the seams are visible on every screen instead of falling between pixels — 148×74 had put 3.08px in a cell and the white ship read grey, 1.75px once scrolled. pixel_boum.py writes three more pieces into index.html and `--check` covers them: the masthead window (`viewBox="6 1 36 20"`, cropped to her cells, around an inner 48×24 svg so the symbol is not shrunk), the `/* pixel-boum:hint */` block (CSS `d` swaps the path for 38 row runs dashed into cells, crispEdges, a 1/16-px nudge), and it refuses to write if `#i-boum` is used anywhere but the masthead, because the hint styles the symbol itself. A head script hands CSS the pixel ratio (`--dpr`); without it the bar is still exact at 1×/2×/3×. Each bar state sets `--cell` (top 3, compact 2, folded row 1.34); compact states set `--qmin: 3`, because 2 device px is 1 lit + 1 seam — a tan mesh, not a white ship. The entrance animation fills `backwards`, not `both`: a fill that outlives it keeps the mark on its own layer, resampled at a fractional offset on a 2.625× phone. The suite renders the ship at 1×–3× and fails on a single blended pixel At display sizes the glyph-field version (`design/matrix-logo/`) is the same ship in code characters |
 | Wordmark | **المهلب** in **Reem Kufi** 700, then `Almuhallab Code` in **Share Tech Mono**, tracked, on its own line beneath (LTR in its own bidi isolate), then «شركة برمجة وأنظمة» in Cairo. Both faces SIL OFL, subset and self-hosted in `almuhallab/fonts/` (the CSP forbids a CDN), precached by `sw.js`, and used by the lockup only — body text stays Cairo. On the brown bar all three are white. The lockup is balanced on the ship's ink: the Latin line is tracked (.1em, 12px) to her width (~110px), «المهلب» 32px desktop / 28px phone, ink gaps 13 / 7 / 13. `scroll-margin-top` must clear the compact bar in every state — 192px desktop (the 1× compact bar is 184px, its ship held at 3 device px a cell), 176px phone |
 | Brand ink | `--tint` `#7a4418` · `--tint-strong` `#6f3f1c` |
 | Surfaces | **white on every device** — no dark theme; white page, white cards, cool near-neutral greys. Brown is ink, never paper — with one exception the owner asked for (2026-07-31): the **masthead bar is brown** (`--tint-strong`) with white ink on every page, and `theme-color` matches it. Everything below the bar stays white |
